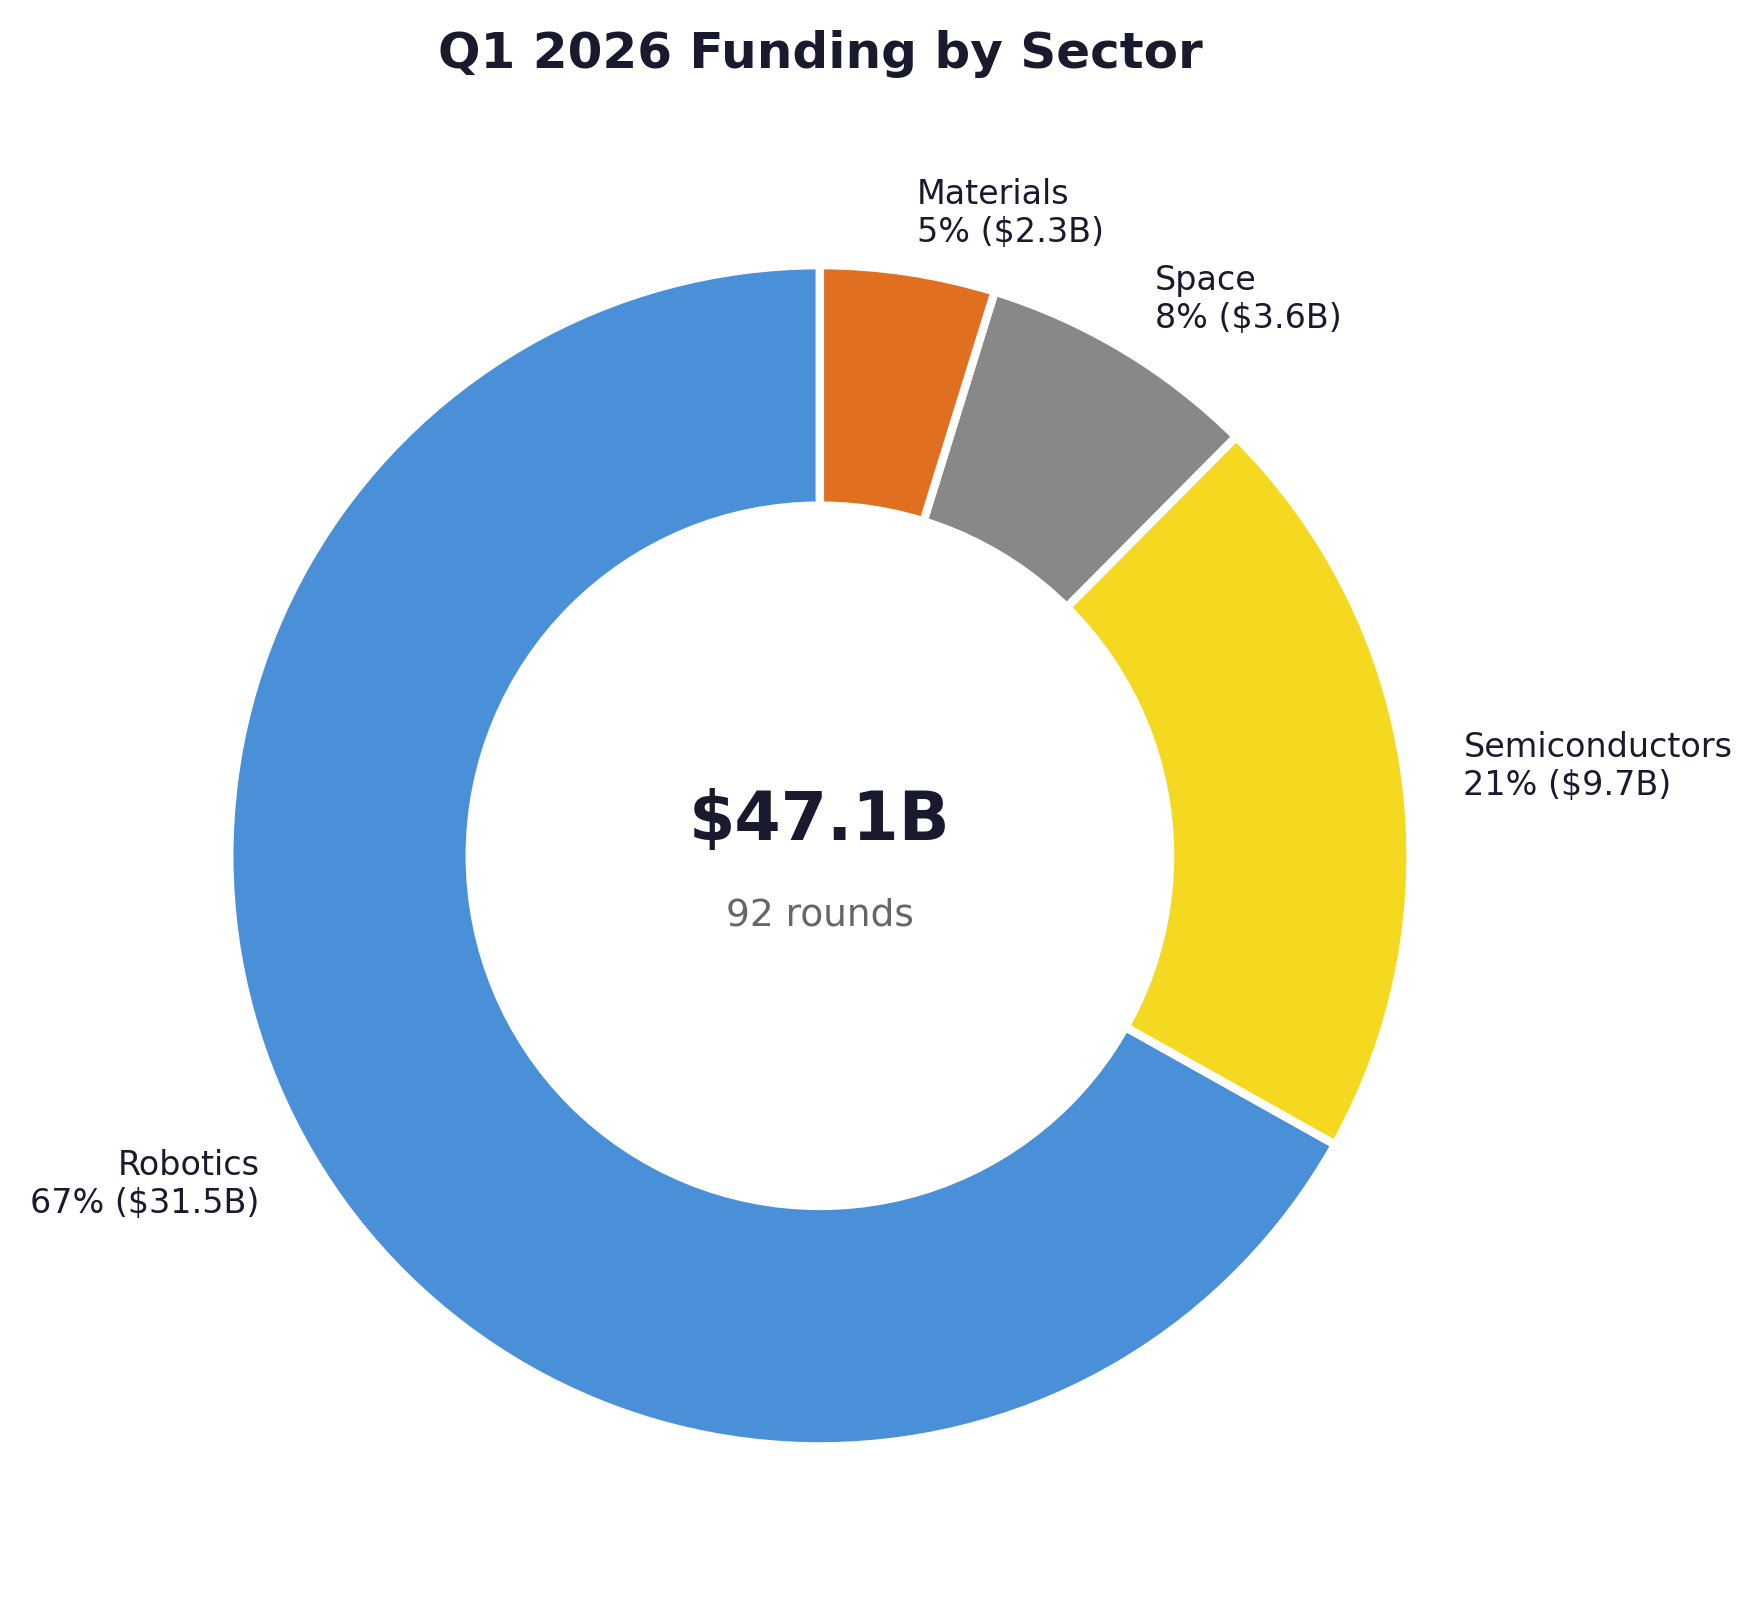
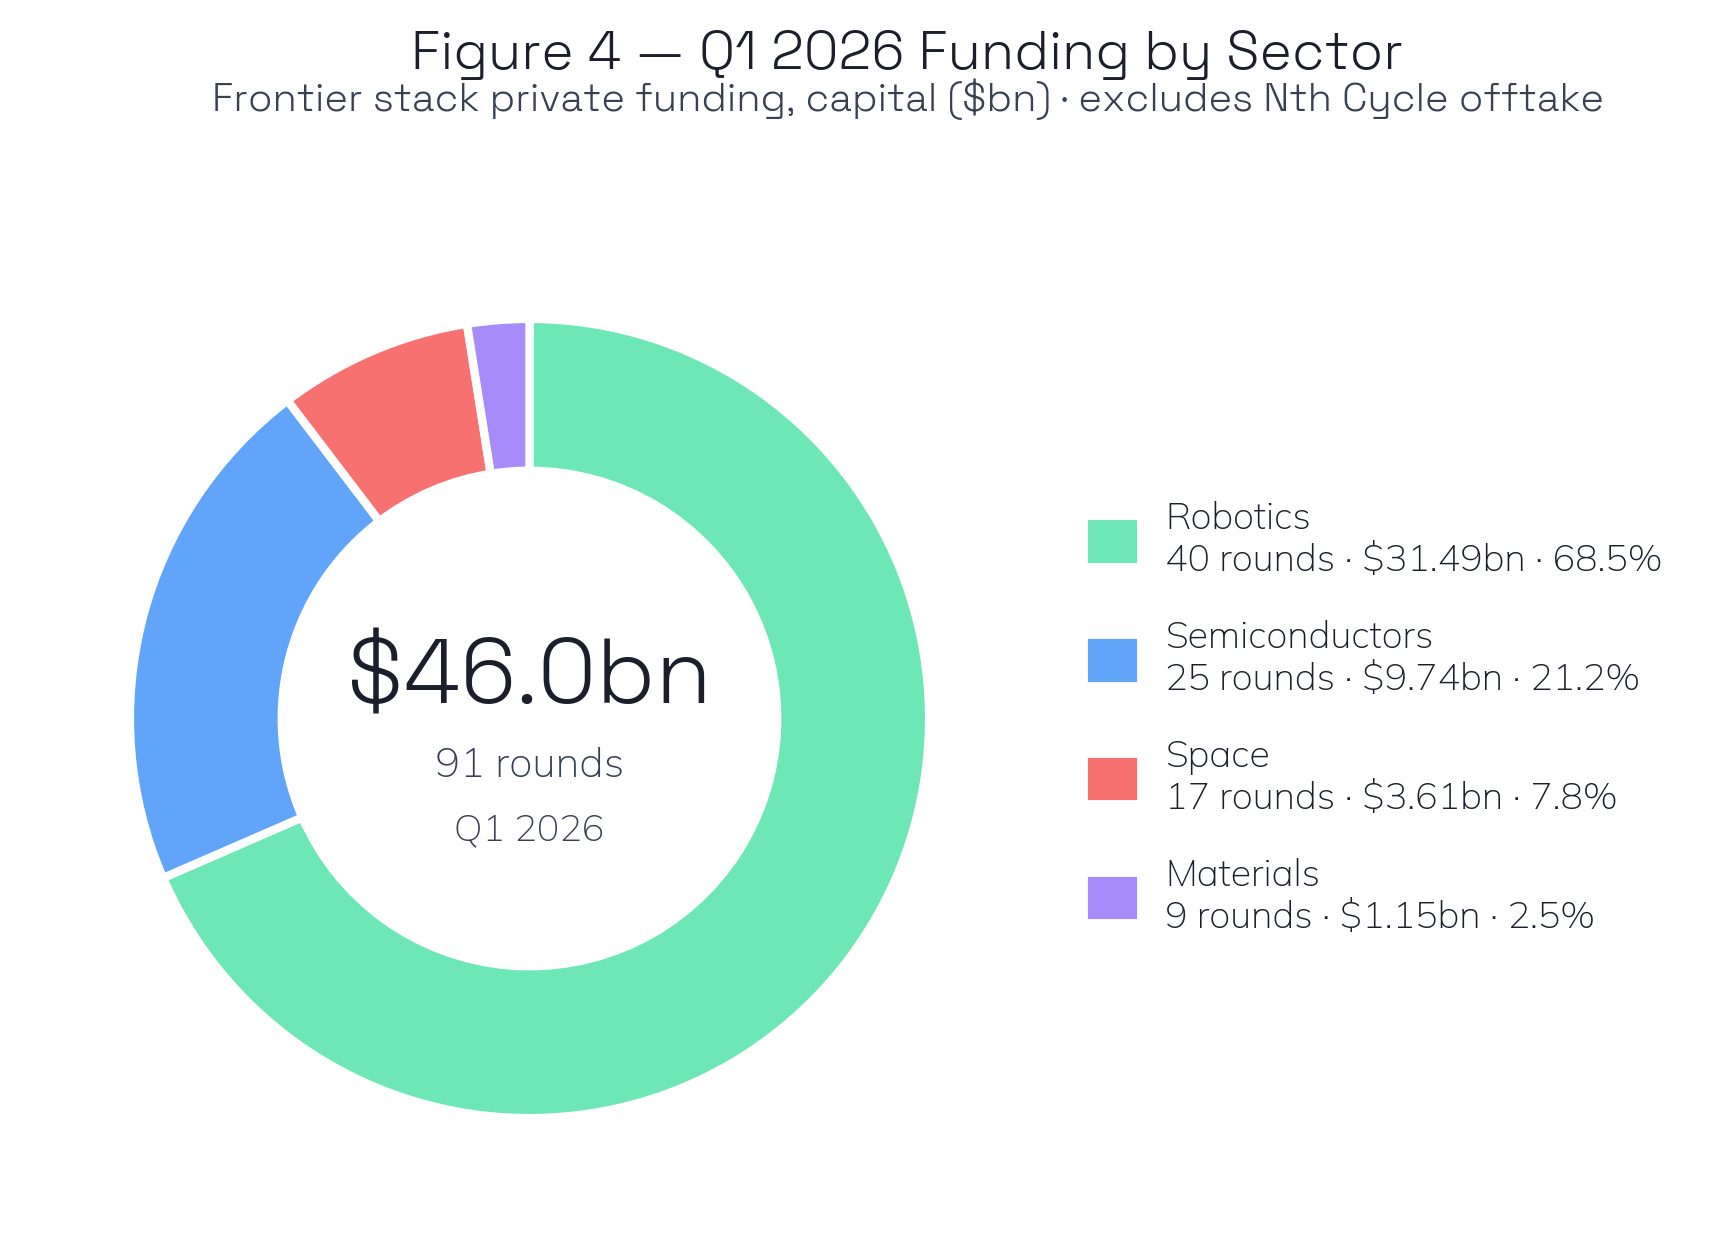
chart update

diff --git a/scripts/generate_funding_charts.py b/scripts/generate_funding_charts.py
@@ -1,0 +1,252 @@
+"""
+Generate Q1 2026 funding report charts using the locked visual template.
+
+Outputs:
+  - data/exports/report_charts/chart_q1_funding_breakdown.png  (donut)
+  - data/exports/report_charts/chart_funding_trends.png         (monthly stacked bars)
+
+Dataset: data/funding/rounds.json
+Filters applied:
+  - Exclude 'Token' sector (not part of frontier stack narrative).
+  - Exclude Nth Cycle $1.1bn Mar 2026 entry — reclassified as offtake
+    agreement with Trafigura per Section 1 verification, not a funding round.
+"""
+
+import json
+from collections import defaultdict
+from datetime import date
+from pathlib import Path
+
+import matplotlib.pyplot as plt
+import matplotlib.patches as mpatches
+
+from report_chart_style import (
+    PALETTE, SIZE, DPI,
+    apply_style, save_report_chart,
+    title_font, subtitle_font,
+)
+
+
+ROOT = Path(__file__).resolve().parent.parent
+ROUNDS_FILE = ROOT / "data" / "funding" / "rounds.json"
+OUT_DIR = ROOT / "data" / "exports" / "report_charts"
+
+# Sector order, labels, and colours — aligned with Figures 2 & 3 locked template.
+# Materials uses the muted violet from PALETTE.subindices (was amber, swapped to
+# avoid collision with the hero Robotnik yellow at chart scale).
+SECTOR_ORDER = ["Robotics", "Semiconductors", "Space", "Materials"]
+SECTOR_COLORS = {
+    "Robotics":       PALETTE.subindices["robotics"],       # muted green
+    "Semiconductors": PALETTE.subindices["semiconductor"],  # muted blue
+    "Space":          PALETTE.subindices["space"],          # salmon
+    "Materials":      PALETTE.subindices["materials"],      # muted violet
+}
+
+
+def load_rounds():
+    with open(ROUNDS_FILE) as f:
+        data = json.load(f)
+    kept = []
+    for r in data["rounds"]:
+        sector = (r.get("sector") or "")
+        if sector.lower() in ("token", "tokens"):
+            continue
+        if (r.get("company") or "").strip().lower() == "nth cycle":
+            continue
+        kept.append(r)
+    return kept
+
+
+def donut_chart(rounds, out_path):
+    """Chart A — Q1 2026 Funding by Sector (donut)."""
+    q1 = [r for r in rounds if r.get("quarter") == "1Q26"]
+
+    totals = defaultdict(float)
+    counts = defaultdict(int)
+    for r in q1:
+        totals[r["sector"]] += r.get("amount_m") or 0
+        counts[r["sector"]] += 1
+
+    grand_total = sum(totals.values())
+    grand_count = sum(counts.values())
+
+    sizes  = [totals[s]   for s in SECTOR_ORDER]
+    labels = SECTOR_ORDER
+    colors = [SECTOR_COLORS[s] for s in SECTOR_ORDER]
+
+    fig, ax = plt.subplots(figsize=SIZE)
+    fig.subplots_adjust(top=0.82, bottom=0.08, left=0.02, right=0.62)
+
+    wedges, _ = ax.pie(
+        sizes,
+        colors=colors,
+        startangle=90,
+        counterclock=False,
+        wedgeprops=dict(width=0.38, edgecolor=PALETTE.paper, linewidth=2.0),
+    )
+
+    # Centre total
+    ax.text(0, 0.10, f"${grand_total/1000:.1f}bn",
+            ha="center", va="center",
+            fontsize=22, fontweight="bold", color=PALETTE.ink,
+            fontproperties=title_font(size=22))
+    ax.text(0, -0.12, f"{grand_count} rounds",
+            ha="center", va="center",
+            fontsize=10, color=PALETTE.axis)
+    ax.text(0, -0.28, "Q1 2026",
+            ha="center", va="center",
+            fontsize=9, color=PALETTE.axis)
+
+    # Legend with sector, rounds, capital, share
+    legend_handles = []
+    for s in SECTOR_ORDER:
+        share = (totals[s] / grand_total) * 100 if grand_total else 0
+        label = f"{s}\n{counts[s]} rounds · ${totals[s]/1000:.2f}bn · {share:.1f}%"
+        legend_handles.append(mpatches.Patch(color=SECTOR_COLORS[s], label=label))
+
+    ax.legend(
+        handles=legend_handles,
+        loc="center left",
+        bbox_to_anchor=(1.02, 0.5),
+        frameon=False,
+        fontsize=9,
+        handlelength=1.2,
+        handleheight=1.2,
+        labelspacing=1.1,
+    )
+
+    # Title + subtitle — Space Grotesk
+    fig.suptitle("Figure 4 — Q1 2026 Funding by Sector",
+                 x=0.5, y=0.96, ha="center",
+                 fontproperties=title_font(size=13),
+                 color=PALETTE.ink)
+    fig.text(0.5, 0.90,
+             "Frontier stack private funding, capital ($bn) · excludes Nth Cycle offtake",
+             ha="center", fontproperties=subtitle_font(size=9.5),
+             color=PALETTE.axis)
+
+    ax.set(aspect="equal")
+    ax.axis("off")
+
+    save_report_chart(fig, out_path)
+    plt.close(fig)
+    return {s: (counts[s], totals[s]) for s in SECTOR_ORDER}
+
+
+def monthly_stacked_bars(rounds, out_path):
+    """Chart B — Frontier Stack Monthly Funding (Jan 2025 – latest)."""
+    # Month buckets, 2025-01 through latest month present.
+    months = []
+    y, m = 2025, 1
+    end_y, end_m = 2026, 3   # report window ends at Q1 2026
+    while (y, m) <= (end_y, end_m):
+        months.append((y, m))
+        m += 1
+        if m == 13:
+            m = 1; y += 1
+
+    def bucket(d):
+        if not d: return None
+        yy, mm = int(d[:4]), int(d[5:7])
+        return (yy, mm)
+
+    # sector -> list of capital_m aligned with months
+    data = {s: [0.0] * len(months) for s in SECTOR_ORDER}
+    idx = {m: i for i, m in enumerate(months)}
+
+    for r in rounds:
+        b = bucket(r.get("date"))
+        if b not in idx:
+            continue
+        s = r.get("sector")
+        if s not in data:
+            continue
+        data[s][idx[b]] += (r.get("amount_m") or 0) / 1000.0   # $bn
+
+    apply_style()  # no-op if already applied, but safe
+    fig, ax = plt.subplots(figsize=SIZE)
+    fig.subplots_adjust(top=0.82, bottom=0.18, left=0.08, right=0.97)
+
+    x = list(range(len(months)))
+    bottom = [0.0] * len(months)
+    for s in SECTOR_ORDER:
+        ax.bar(
+            x, data[s],
+            bottom=bottom,
+            color=SECTOR_COLORS[s],
+            edgecolor=PALETTE.paper,
+            linewidth=0.5,
+            width=0.78,
+            label=s,
+        )
+        bottom = [b + v for b, v in zip(bottom, data[s])]
+
+    # X axis labels: "Jan 25", "Feb 25", ... quarter separators are implicit.
+    labels = []
+    for (yy, mm) in months:
+        labels.append(f"{date(yy, mm, 1).strftime('%b')} {str(yy)[-2:]}")
+    ax.set_xticks(x)
+    ax.set_xticklabels(labels, rotation=45, ha="right", fontsize=8)
+
+    ax.set_ylabel("Capital raised ($bn)", fontsize=10, color=PALETTE.axis)
+    ax.yaxis.set_major_formatter(plt.FuncFormatter(lambda v, _: f"${v:.0f}bn"))
+
+    ymax = max(bottom) * 1.15
+    ax.set_ylim(0, ymax)
+    ax.set_xlim(-0.7, len(months) - 0.3)
+
+    # Titles — Space Grotesk
+    fig.suptitle("Figure 5 — Frontier Stack Monthly Funding, 2025–2026",
+                 x=0.5, y=0.96, ha="center",
+                 fontproperties=title_font(size=13),
+                 color=PALETTE.ink)
+    fig.text(0.5, 0.90,
+             "Monthly capital raised by sector ($bn) · excludes Nth Cycle offtake",
+             ha="center", fontproperties=subtitle_font(size=9.5),
+             color=PALETTE.axis)
+
+    # Legend — horizontal at top, under subtitle
+    leg = ax.legend(
+        loc="upper right",
+        ncol=4,
+        frameon=True,
+        framealpha=0.92,
+        edgecolor=PALETTE.grid,
+        facecolor=PALETTE.paper,
+        fontsize=9,
+        columnspacing=1.4,
+        handlelength=1.2,
+        handleheight=1.0,
+    )
+
+    save_report_chart(fig, out_path)
+    plt.close(fig)
+
+    # Return per-month totals for sanity check
+    totals_by_month = {m: sum(data[s][i] for s in SECTOR_ORDER) for i, m in enumerate(months)}
+    return totals_by_month
+
+
+def main():
+    apply_style()
+    rounds = load_rounds()
+
+    OUT_DIR.mkdir(parents=True, exist_ok=True)
+
+    donut_totals = donut_chart(rounds, OUT_DIR / "chart_q1_funding_breakdown.png")
+    monthly_totals = monthly_stacked_bars(rounds, OUT_DIR / "chart_funding_trends.png")
+
+    print("Q1 2026 donut totals (excl Tokens, excl Nth Cycle):")
+    total = 0
+    for s, (n, cap) in donut_totals.items():
+        print(f"  {s:<16} n={n:>3}  cap=${cap/1000:.3f}bn")
+        total += cap
+    print(f"  TOTAL            n={sum(n for n,_ in donut_totals.values()):>3}  cap=${total/1000:.3f}bn")
+
+    print("\nMonthly totals ($bn):")
+    for (y, m), v in monthly_totals.items():
+        print(f"  {y}-{m:02d}  ${v:.2f}bn")
+
+
+if __name__ == "__main__":
+    main()
